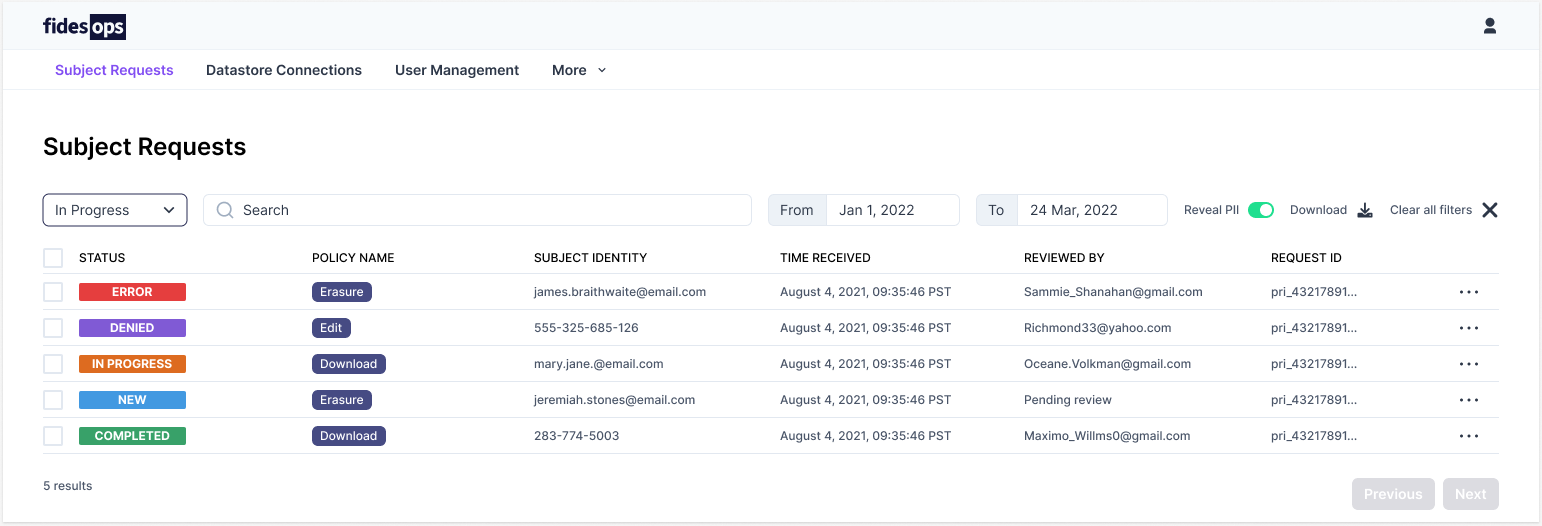
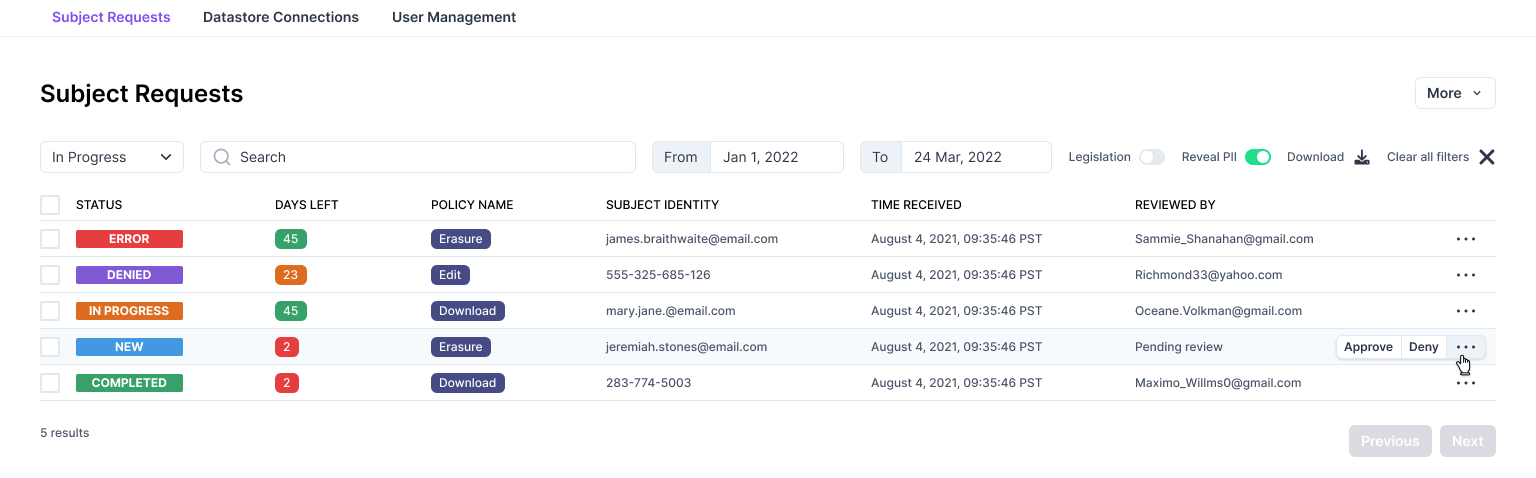
Update privacy center docs to include consent options (#1537)

diff --git a/docs/fides/docs/ui/privacy_center.md b/docs/fides/docs/ui/privacy_center.md
@@ -1,12 +1,12 @@
 # Privacy Center
 
-The fidesops [Privacy Center](privacy_center.md) is a configurable webpage where users can request to download or delete their data.
+The Fides [Privacy Center](privacy_center.md) is a configurable webpage where users can request to download or delete their data. The Privacy Center also provides configurable consent settings for regulatory compliance, allowing users to access and edit their data use preferences.
 
 ![privacy center](../img/admin_ui/privacy_center.png)
 
 ## Configuration
 
-The fidesops Privacy Center's text and actions are managed by a `config.json` file in the fidesops `/privacy-center/config` directory.
+The Fides Privacy Center's text and actions are managed by a `config.json` file in the Fides `/privacy-center/config` directory.
 
 ```json title="<code>config.json</code>"
 {
@@ -17,9 +17,9 @@ The fidesops Privacy Center's text and actions are managed by a `config.json` fi
   "logo_path": "/logo.svg",
   "actions": [
     {
-      "policy_key": "download",
+      "policy_key": "default_access_policy",
       "icon_path": "/download.svg",
-      "title": "Download your data",
+      "title": "Access your data",
       "description": "We will email you a report of the data related to your account.",
       "identity_inputs": {
         "name": "optional",
@@ -28,9 +28,9 @@ The fidesops Privacy Center's text and actions are managed by a `config.json` fi
       }
     },
     {
-      "policy_key": "delete",
+      "policy_key": "default_erasure_policy",
       "icon_path": "/delete.svg",
-      "title": "Delete your data",
+      "title": "Erase your data",
       "description": "We will delete all of your account data. This action cannot be undone.",
       "identity_inputs": {
         "name": "optional",
@@ -38,26 +38,89 @@ The fidesops Privacy Center's text and actions are managed by a `config.json` fi
         "phone": "optional"
       }
     }
-  ]
+  ],
+  "includeConsent": true,
+  "consent": {
+    "cookieName": "fides_consent",
+    "consentOptions": [
+      {
+        "fidesDataUseKey": "advertising",
+        "name": "Advertising / Data Sharing",
+        "description": "We may use some of your personal information for advertising performance analysis and audience modeling for ongoing advertising which may be interpreted as 'Data Sharing' under some regulations.",
+        "url": "https://example.com/privacy#advertising",
+        "default": true,
+        "highlight": false,
+        "cookieKeys": ["data_sales"]
+      },
+      {
+        "fidesDataUseKey": "improve",
+        "name": "Product Analytics",
+        "description": "We may use some of your personal information to collect analytics about how you use our products & services, in order to improve our service.",
+        "url": "https://example.com/privacy#data-sales",
+        "default": true,
+        "highlight": false,
+        "cookieKeys": ["data_sales"]
+      },
+      {
+        "name": "Analytics",
+        "fidesDataUseKey": "third_party_sharing",
+        "description": "...",
+        "url": "https://example.com/privacy#analytics",
+        "cookieKeys": ["data_sharing"]
+      },
+      {
+        "name": "Personalize",
+        "fidesDataUseKey": "personalize",
+        "default": true,
+        "url": "https://example.com/privacy#personalize",
+        "description": "...",
+        "cookieKeys": ["functional"]
+      },
+      {
+        "name": "Essential",
+        "fidesDataUseKey": "provide.service",
+        "default": true,
+        "url": "https://example.com/privacy#essential",
+        "highlight": true,
+        "description": "...",
+        "cookieKeys": ["essential"]
+      }
+    ]
+  }
 }
 ```
 
 | Key | Description |
 |----|----|
-| `title` and `dscription` | Text fields to override the default text of either the main portal, or the associated action. |
+| `title` and `description` | Text fields to override the default text of either the main portal, or the associated action. |
 | `server_url_development` | The Fides server URL to use for development deployments. |
 | `server_url_production` | The Fides server URL to use for production deployments. |
 | `logo_path` | The relative path to a brand or site logo to replace the default. |
-| `actions` | A list of [action objects](#actions), each of which represent a new tile available in the portal, and are associated to a single fidesops policy. |
+| `actions` | A list of [action objects](#actions), each of which represent a new tile available in the portal, and are associated to a single Fides policy. |
 | `policy_key` | The key of the [policy](../guides/policies.md) to use for this action. |
 | `icon_path` | The relative path of an icon to replace the defaults. |
 | `identity_inputs` | The list of personally identifiable information required by an action. |
 
 ### Actions
 
-Actions represent available privacy rights executable from the Privacy Center. The provided `config.json` includes Download and Delete default, representing common requests to access or remove data under most privacy regulations. Each action is associated with a fidesops [policy key](../guides/policy_webhooks.md), which defines the policy executed when the DSR is approved.
+Actions represent available privacy rights executable from the Privacy Center. The provided `config.json` includes Download and Delete default, representing common requests to access or remove data under most privacy regulations. Each action is associated with a Fides [policy key](../guides/policy_webhooks.md), which defines the policy executed when the DSR is approved.
 
 Additional actions can be added to this list, and removed at any time.
+
+### Consent
+To provide compliancy with local and internal regulations, you may define a series of [data uses](https://ethyca.github.io/fideslang/taxonomy/data_uses/) in your Privacy Center configuration. This list of data uses will allow users to configure their personal privacy preferences, which will be stored as a cookie.
+
+![manage consent](../img/admin_ui/manage_consent.png)
+
+| Key | Description |
+|----|----|
+| `includeConsent` | Where or not the consent options are enabled. |
+| `cookieName` | The name of the stored cookie. |
+| `title` and `description` | Text fields to override the default text of the associated consent option. |
+| `url` | The URL where a user can find additional information about this data use. |
+| `default` | If this consent preference is enabled (true) or disabled (false) by default. |
+| `highlight` | Whether or not this consent preference is highlighted. |
+| `cookieKeys` | The data use represented within your stored cookie. |
 
 ### Styling
 

diff --git a/docs/fides/docs/ui/subject_requests.md b/docs/fides/docs/ui/subject_requests.md
@@ -15,6 +15,17 @@ The Fides Admin UI is designed to provide at-a-glance access to submitted subjec
 | Download | Download a `.csv` of the shown requests. |
 | Clear | Remove all search options and filters. |
 
+### Request information
+| Option | Description |
+|----|----|
+| Status | The request's current status. |
+| Days Left | The number of days remaining to fullfil the subject request, according to compliance policies and regulations. |
+| Policy Name | The name of the [execution policy](../getting-started/execution_policies.md) used for this request. |
+| Subject Identity | Subject information. Hidden if **Reveal PII** is not selected. |
+| Time Received | The time the request was first received. |
+| Reviewed By | The system user that reviewed the request. |
+| Options [...] | Approve and Deny options for the request. |
+
 ## Approve or deny requests
 
 ![approve or deny requests](../img/admin_ui/approve_deny.png)

diff --git a/docs/fides/docs/ui/overview.md b/docs/fides/docs/ui/overview.md
@@ -5,7 +5,7 @@ Fides provides several user interfaces to assist in receiving and reviewing priv
 ## Admin UI
 The Admin UI organizes processes like fulfilling [data subject requests](subject_requests.md), creating Fides resources, and [managing user access](user_management.md) into a single control panel. Once configured, the Admin UI allows authorized users to manage policies, [update datasets](datasets.md), and customize your Fides [taxonomy](https://ethyca.github.io/fideslang/taxonomy/overview/).
 
-![admin ui](../img/admin_ui/admin_ui.png)
+![admin ui](../img/admin_ui/sr_overview.png)
 
 ## Privacy Center 
 The Fides [Privacy Center](privacy_center.md) is a configurable webpage that allows your users to submit data access or deletion requests. Requests submitted through the Privacy Center are available for review in the Admin UI, and are processed according to your policy execution rules.

diff --git a/CHANGELOG.md b/CHANGELOG.md
@@ -47,6 +47,7 @@ The types of changes are:
 ### Docs
 
 * Add unlinked docs and fix any remaining broken links [#1266](https://github.com/ethyca/fides/pull/1266)
+* Update privacy center docs to include consent information [#1537](https://github.com/ethyca/fides/pull/1537)
 
 ### Fixed
 
